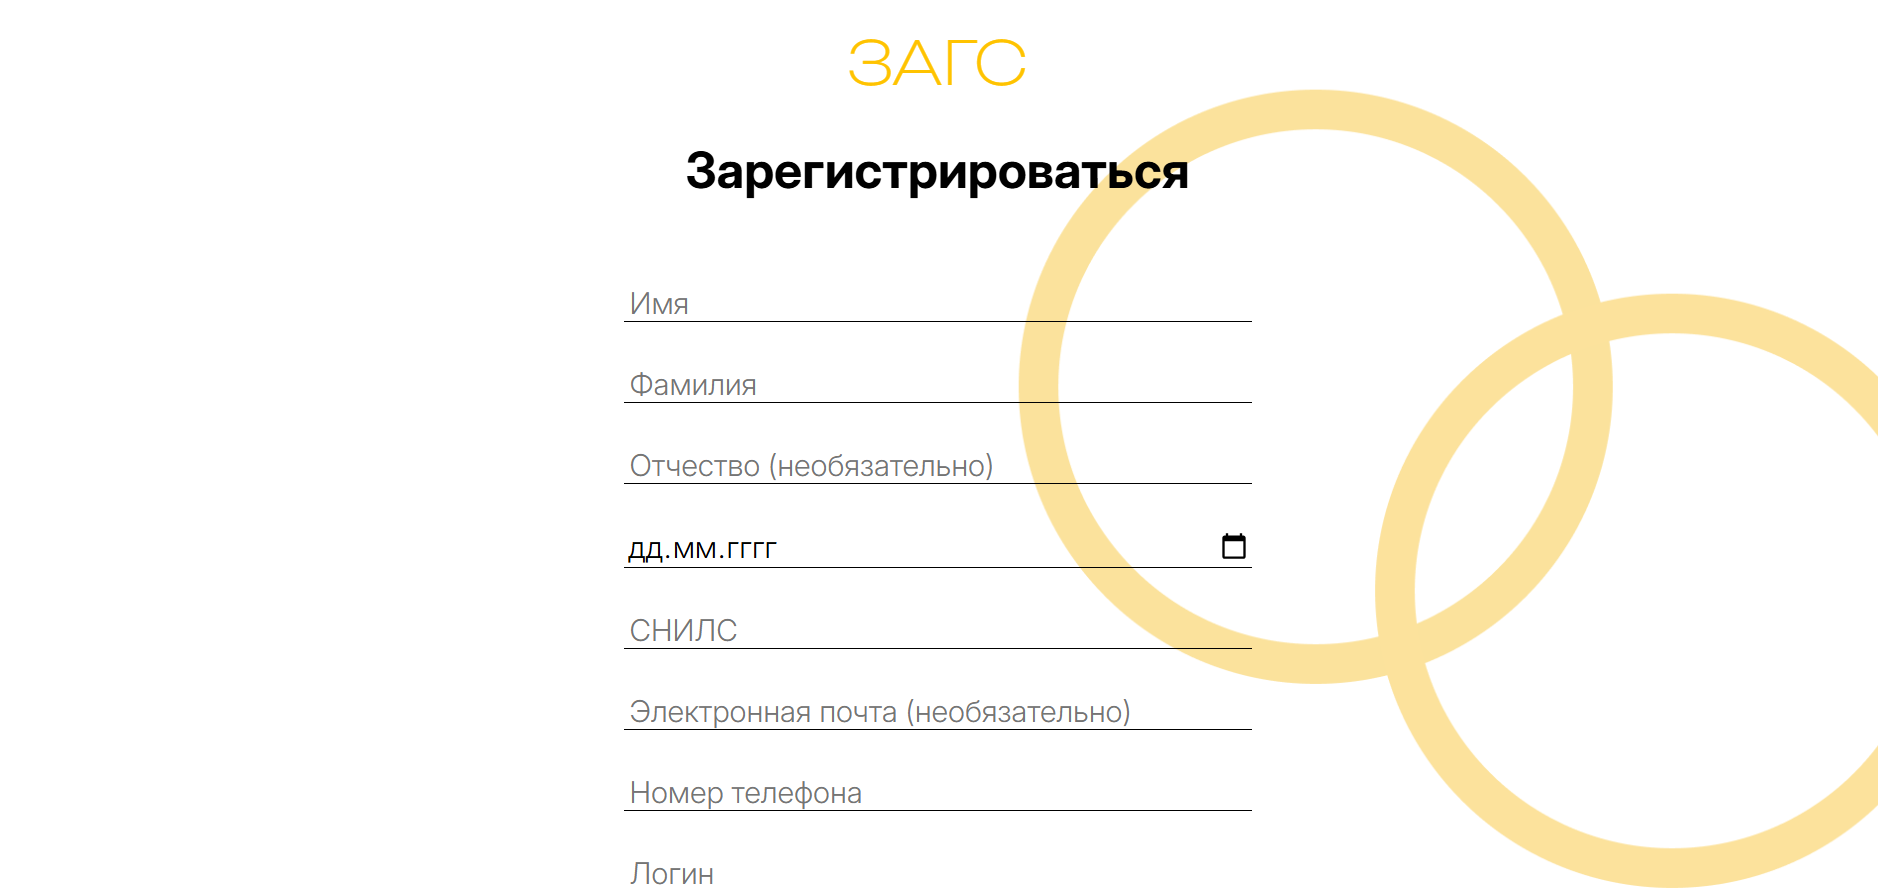
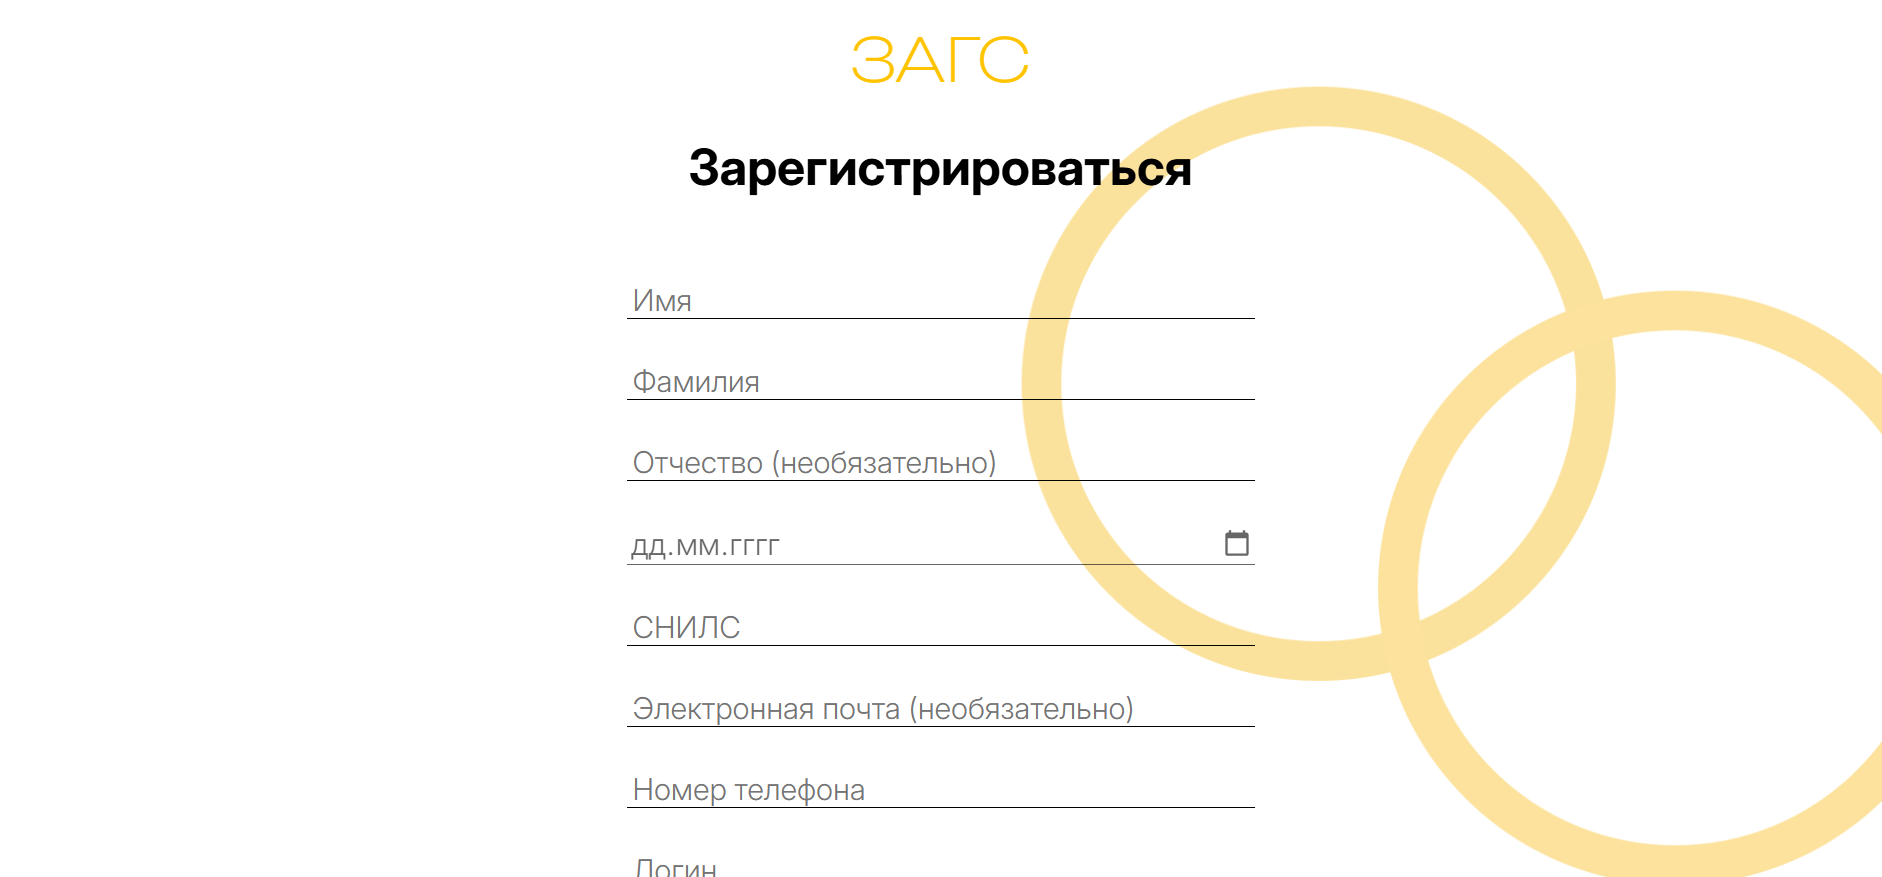
Update README #24

diff --git a/src/main/resources/templates/death-registration.html b/src/main/resources/templates/death-registration.html
@@ -27,7 +27,7 @@
                 </label>
 
                 <label>
-                    <input class="date-input inputs-input" type="date" th:field="*{deathDate}" oninput="updateInputDateClass(this)" placeholder="Дата смерти" required> <br>
+                    <input class="inputs-input" type="date" th:field="*{deathDate}" placeholder="Дата смерти" required> <br>
                     <p th:if="${#fields.hasErrors('deathDate')}" th:errors="*{deathDate}" class="error-message"></p>
                 </label>
 
@@ -53,8 +53,6 @@
         </form>
     </div>
 </section>
-
-<script src="/js/base.js"></script>
 
 </body>
 </html>

diff --git a/src/main/resources/templates/birth.html b/src/main/resources/templates/birth.html
@@ -67,5 +67,6 @@
     </div>
 </section>
 <script src="https://cdn.jsdelivr.net/npm/bootstrap@5.3.5/dist/js/bootstrap.bundle.min.js" integrity="sha384-k6d4wzSIapyDyv1kpU366/PK5hCdSbCRGRCMv+eplOQJWyd1fbcAu9OCUj5zNLiq" crossorigin="anonymous"></script>
+<script src="/js/base.js"></script>
 </body>
 </html>

diff --git a/src/main/resources/templates/marriage.html b/src/main/resources/templates/marriage.html
@@ -56,5 +56,6 @@
     </div>
 </section>
 <script src="https://cdn.jsdelivr.net/npm/bootstrap@5.3.5/dist/js/bootstrap.bundle.min.js" integrity="sha384-k6d4wzSIapyDyv1kpU366/PK5hCdSbCRGRCMv+eplOQJWyd1fbcAu9OCUj5zNLiq" crossorigin="anonymous"></script>
+<script src="/js/base.js"></script>
 </body>
 </html>

diff --git a/src/main/resources/templates/divorce.html b/src/main/resources/templates/divorce.html
@@ -60,5 +60,6 @@
   </div>
 </section>
 <script src="https://cdn.jsdelivr.net/npm/bootstrap@5.3.5/dist/js/bootstrap.bundle.min.js" integrity="sha384-k6d4wzSIapyDyv1kpU366/PK5hCdSbCRGRCMv+eplOQJWyd1fbcAu9OCUj5zNLiq" crossorigin="anonymous"></script>
+<script src="/js/base.js"></script>
 </body>
 </html>

diff --git a/src/main/java/com/registry/office/system/registry_office_system/config/SecurityConfig.java b/src/main/java/com/registry/office/system/registry_office_system/config/SecurityConfig.java
@@ -37,7 +37,7 @@ public class SecurityConfig {
         http
                 .authorizeHttpRequests(auth -> auth
                         .requestMatchers("/", "/login", "/register", "/css/**",
-                                "/info", "/admin/**", "/images/**", "/requests/**").permitAll()
+                                "/info", "/admin/**", "/images/**", "/requests/**", "/js/**").permitAll()
                         .requestMatchers("/documents").authenticated()
                         .anyRequest().authenticated()
                 )
